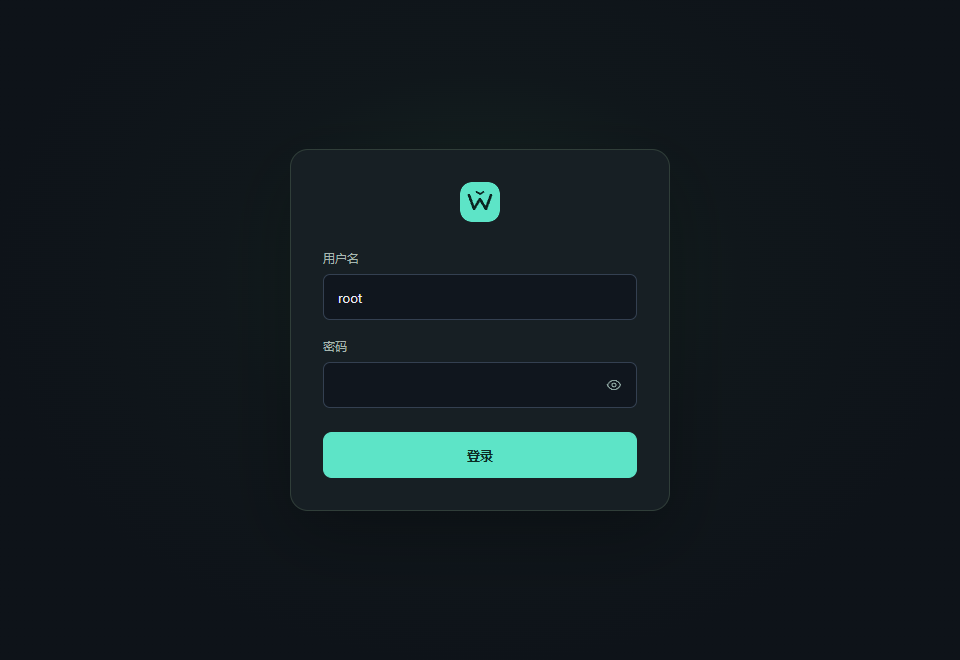
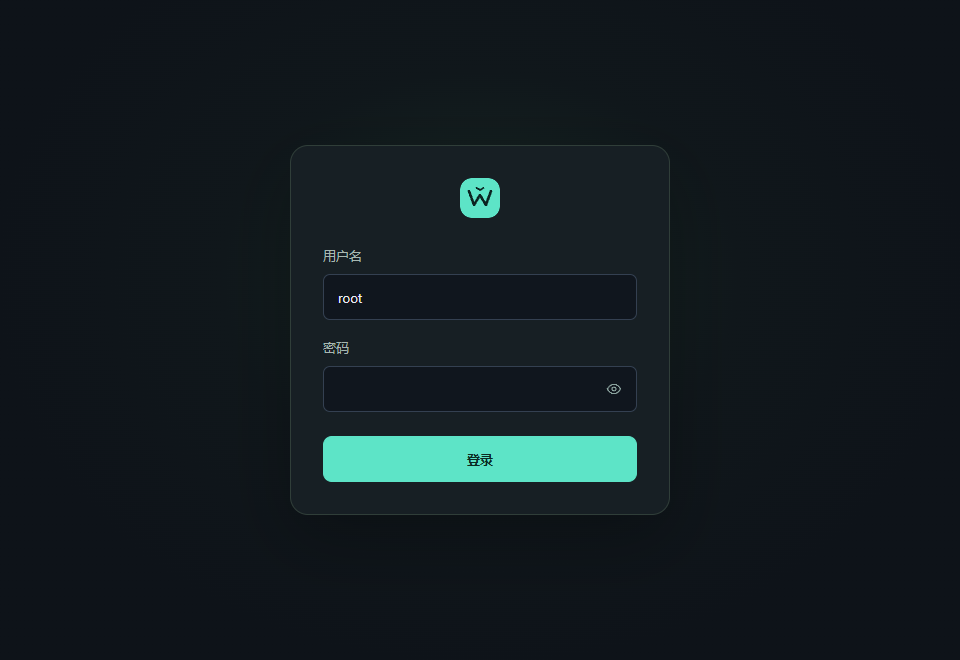
Use platform fonts and refine typography for v1.13.25

diff --git a/htdocs/luci-static/wm/cascade.css b/htdocs/luci-static/wm/cascade.css
@@ -9,11 +9,12 @@
  --border-color-high:#424d5f; --border-color-medium:var(--nt-line); --border-color-low:#232a35;
  --primary-color-high:var(--nt-accent); --primary-color-medium:#47cbb1; --primary-color-low:#36b99f; --on-primary-color:#092a23;
  --success-color-high:#5de4c7; --success-color-medium:#3bb99f; --success-color-low:#27866f; --on-success-color:#092a23;
- --font-sans:Inter,"Segoe UI","Microsoft YaHei",system-ui,sans-serif;
+ /* Use the platform font locally; never download or bundle Apple font files. */
+ --font-sans:-apple-system,BlinkMacSystemFont,"Segoe UI","Microsoft YaHei",system-ui,sans-serif;
  --font-mono:"Cascadia Code",Consolas,monospace; color-scheme:dark;
 }
 html {background:var(--nt-bg);scroll-behavior:auto;scrollbar-color:#465765 transparent;scrollbar-width:thin;}
-body.wm {margin:0;padding:0;background:var(--nt-bg);color:var(--nt-text);font:13px/1.65 var(--font-sans);min-width:0;overflow-y:auto;scrollbar-color:#394353 transparent;}
+body.wm {margin:0;padding:0;background:var(--nt-bg);color:var(--nt-text);font:400 13px/1.65 var(--font-sans);font-kerning:normal;font-optical-sizing:auto;letter-spacing:normal;min-width:0;overflow-y:auto;scrollbar-color:#394353 transparent;}
 /* Style only the page scrollbar; retain native scrolling and a wider drag area.
    Non-auto standard properties override WebKit scrollbar pseudo-elements. */
 @media (hover:hover) and (pointer:fine) and (forced-colors:none) {
@@ -161,7 +162,7 @@ html.nt-restoring-scroll .wm #maincontent {visibility:hidden;}
 .nt-metric:nth-child(2) .nt-metric-icon {color:#b1a8e1;background:#2d2940;border-color:#3b3454;}
 .nt-metric:nth-child(3) .nt-metric-icon {color:#88b5da;background:#223342;border-color:#2c4359;}
 .nt-metric:nth-child(4) .nt-metric-icon {color:#dbba81;background:#383020;border-color:#4a3d29;}
-.nt-metric-value {color:var(--nt-text);font-size:27px;line-height:1.3;font-weight:550;letter-spacing:-1px;font-variant-numeric:tabular-nums;white-space:nowrap;}
+.nt-metric-value {color:var(--nt-text);font-size:27px;line-height:1.3;font-weight:600;letter-spacing:-.02em;font-variant-numeric:tabular-nums;white-space:nowrap;}
 .nt-metric-value small {font-size:11px;color:var(--nt-muted);font-weight:400;letter-spacing:0;margin-left:5px;}
 .nt-metric-note {font-size:10px;color:var(--nt-dim);margin-top:10px;white-space:nowrap;overflow:hidden;text-overflow:ellipsis;}
 .nt-meter {height:3px;background:#28313e;border-radius:3px;margin-top:15px;overflow:hidden;}
@@ -170,9 +171,9 @@ html.nt-restoring-scroll .wm #maincontent {visibility:hidden;}
 .nt-metric:nth-child(4) .nt-meter span {background:#d0ae70;}
 .nt-sparkline {height:23px;width:100%;overflow:visible;display:block;margin-top:9px;}
 .nt-sparkline polyline {fill:none;stroke:#afa0df;stroke-width:1.8;vector-effect:non-scaling-stroke;}
-.wm h2 {font-size:19px;font-weight:550;color:var(--nt-text);letter-spacing:-.4px;line-height:1.5;margin:0 0 19px;padding:0;}
+.wm h2 {font-size:20px;font-weight:600;color:var(--nt-text);letter-spacing:0;line-height:1.5;margin:0 0 19px;padding:0;}
 .wm #maincontent>h2 {display:none;}
-.wm h3 {font-size:13px;font-weight:550;color:#d8e1ed;padding:0;line-height:1.5;letter-spacing:0;}
+.wm h3 {font-size:13px;font-weight:600;color:#d8e1ed;padding:0;line-height:1.5;letter-spacing:0;}
 .wm h4 {font-size:12px;color:#c7d2e1;}
 .wm .cbi-map-descr,.wm .cbi-section-descr {font-size:12px;color:var(--nt-muted);line-height:1.9;}
 .wm .cbi-section,.wm .cbi-tblsection {background:var(--nt-panel);border:1px solid var(--nt-line);border-radius:12px;padding:21px 23px;margin:0 0 20px;box-shadow:0 2px 3px #00000009;min-width:0;}
@@ -200,7 +201,7 @@ html.nt-restoring-scroll .wm #maincontent {visibility:hidden;}
 .wm.nt-overview #view>.cbi-section:first-child .td:first-child {color:var(--nt-dim);width:32%!important;}
 .wm .cbi-value {padding:13px 0;margin-bottom:8px;border-color:var(--nt-line);background:transparent;}
 .wm[data-page="admin-system-system"] .cbi-map>h2:first-child {display:none;}
-.wm .cbi-value-title {color:#c0ccda;font-size:12px;}
+.wm .cbi-value-title {color:#c0ccda;font-size:13px;}
 .wm .cbi-value-description {color:var(--nt-dim);font-size:11px;margin-top:8px;}
 .wm input:not([type=checkbox]):not([type=radio]):not([type=button]):not([type=submit]):not([type=reset]),.wm select,.wm textarea,.wm .cbi-dropdown:not(.btn):not(.cbi-button) {background:#10161e;color:var(--nt-text);border:1px solid #344051;border-radius:7px;box-shadow:none;min-height:35px;transition:border-color .18s,box-shadow .18s;}
 .wm input:not([type=checkbox]):not([type=radio]):not([type=button]):not([type=submit]):not([type=reset]):focus,.wm select:focus,.wm textarea:focus {border-color:#5aab98;box-shadow:0 0 0 3px #5de4c712;outline:none;}
@@ -422,7 +423,7 @@ html.nt-restoring-scroll .wm #maincontent {visibility:hidden;}
 .nt-login-brand {display:flex;flex-direction:column;align-items:center;justify-content:center;gap:12px;margin-bottom:28px;text-align:center;}
 .nt-login-brand img {border-radius:12px;flex-shrink:0;}
 .nt-login-form {margin:0;}
-.nt-login-form>label {display:block;font-size:12px;color:#a7b7b1;margin-bottom:8px;margin-top:18px;}
+.nt-login-form>label {display:block;font-size:13px;line-height:20px;color:#a7b7b1;margin-bottom:8px;margin-top:18px;}
 .nt-login-form>label:first-child {margin-top:0;}
 .wm .nt-login-form input {--focus-color-rgb:89,185,158;display:block;width:100%;height:46px;border:1px solid #34433f;border-radius:9px;background:#10171bd9;padding:10px 14px;font-size:13px;}
 .wm .nt-login-form input:focus {border-color:#59b99e;box-shadow:0 0 0 3px #5de4c70c;}

diff --git a/htdocs/luci-static/wm/home.css b/htdocs/luci-static/wm/home.css
@@ -9,7 +9,7 @@
 .wm.nt-overview .nt-metric:hover {transform:translateY(-4px);border-color:#4b665b;box-shadow:0 12px 28px #0003;}
 .wm.nt-overview .nt-metric-head {font-size:11px;margin-bottom:8px;}
 .wm.nt-overview .nt-metric-icon {width:28px;height:28px;border-radius:8px;}
-.wm.nt-overview .nt-metric-value {display:flex;align-items:baseline;flex-wrap:wrap;gap:3px 6px;font-size:27px;font-weight:600;letter-spacing:-1px;line-height:1.3;}
+.wm.nt-overview .nt-metric-value {display:flex;align-items:baseline;flex-wrap:wrap;gap:3px 6px;font-size:27px;font-weight:600;letter-spacing:-.02em;line-height:1.3;}
 .wm.nt-overview #nt-value-up {font-size:25px;}
 .wm.nt-overview .nt-metric-value small {margin-left:0;font-size:10px;}
 .wm.nt-overview .nt-metric-note {color:#809096;font-size:10px;line-height:1.5;margin-top:7px;}
@@ -69,7 +69,7 @@
 .nt-port-glyph {width:25px;height:25px;flex-shrink:0;fill:none;stroke:#79c9b2;stroke-width:1.35;stroke-linecap:round;stroke-linejoin:round;}
 .nt-port-speed {min-width:0;}
 .nt-port-speed-value {color:#e0eceb;font-size:23px;font-weight:500;line-height:1.25;letter-spacing:-.6px;font-variant-numeric:tabular-nums;overflow-wrap:anywhere;}
-.nt-port-speed-value strong {font:inherit;font-weight:550;}
+.nt-port-speed-value strong {font:inherit;font-weight:600;}
 .nt-port-speed-value small {font-size:11px;letter-spacing:0;font-weight:400;color:#8d9eab;margin-left:5px;}
 .wm.nt-overview .nt-port-card .nt-port-network-row {position:relative;justify-self:start;display:block!important;width:fit-content;min-width:0;min-height:20px;max-width:100%;padding:0;border:0;background:transparent!important;font-weight:400;}
 .nt-port-traffic {position:relative;}
@@ -103,7 +103,7 @@
 .wm.nt-overview .nt-network-content>.network-status-table {display:grid;grid-template-columns:repeat(auto-fit,minmax(min(100%,320px),1fr));gap:12px;min-width:0;margin:0;}
 .wm.nt-overview .nt-network-content .nt-uplink-card {container:wm-uplink / inline-size;display:block;min-width:0;max-width:100%;margin:0;padding:15px;border:1px solid #303c47;border-radius:10px;background:#151c24;white-space:normal;text-align:left;box-shadow:none;}
 .wm.nt-overview .nt-uplink-card>.nt-uplink-head {display:flex;align-items:center;gap:8px;justify-content:space-between;padding:0 0 13px;border:0;background:transparent!important;color:#d8e6eb!important;text-align:left;font-size:12px;}
-.nt-uplink-head>strong {font-weight:550;}
+.nt-uplink-head>strong {font-weight:600;}
 .wm.nt-overview .nt-uplink-card>.ifacebox-body {display:block;height:auto;padding:0;border:0;background:transparent;font-size:12px;}
 .wm.nt-overview .nt-uplink-card .nt-uplink-fields {display:grid;grid-template-columns:repeat(3,minmax(0,1fr));gap:12px 18px;margin:0;min-width:0;height:auto;flex:none;}
 .nt-uplink-fields>br,.nt-uplink-device br {display:none;}

diff --git a/htdocs/luci-static/resources/menu-wm.js b/htdocs/luci-static/resources/menu-wm.js
@@ -5,7 +5,7 @@
 
 return baseclass.extend({
  __init__: function() {
-  var menuVersion = '1.13.24';
+  var menuVersion = '1.13.25';
   if (session.getLocalData('wm.menu.version') !== menuVersion) {
    // LuCI keeps menu data in both the current module and the browser session.
    ui.menu.flushCache();

diff --git a/tools/build.py b/tools/build.py
@@ -38,7 +38,7 @@ for name in ['NOTICE','LICENSE']:
     data.append(('usr/share/doc/luci-theme-wm/'+name,(source/name).read_bytes(),0o644))
 
 control=f'''Package: luci-theme-wm
-Version: 1.13.24-1
+Version: 1.13.25-1
 Architecture: all
 Maintainer: wm contributors
 Section: luci
@@ -65,7 +65,7 @@ uci commit luci
 exit 0
 '''
 members=[('debian-binary',b'2.0\n'),('control.tar.gz',tar_bytes([('control',control.encode(),0o644),('postinst',postinst.encode(),0o755),('prerm',prerm.encode(),0o755)])),('data.tar.gz',tar_bytes(data))]
-package=out/'luci-theme-wm_1.13.24-1_all.ipk'
+package=out/'luci-theme-wm_1.13.25-1_all.ipk'
 package.write_bytes(tar_bytes([(name,content,0o644) for name,content in members]))
 with tarfile.open(out/'luci-theme-wm-source.tar.gz','w:gz') as tar:
     # Keep local QA, device backups, credentials and Git metadata out of releases.

diff --git a/README.md b/README.md
@@ -2,7 +2,7 @@
 
 为 OpenWrt LuCI 制作的现代暗黑主题。石墨黑背景、薄荷绿强调色、可折叠侧栏、响应式内容区，以及简洁的居中登录界面。
 
-**当前版本：1.13.24-1 · 软件包架构：all · 许可证：Apache-2.0**
+**当前版本：1.13.25-1 · 软件包架构：all · 许可证：Apache-2.0**
 
 ## 界面预览
 
@@ -24,8 +24,8 @@
 
 在 [最新 Release](https://github.com/xwei888/luci-theme-wm/releases/latest) 页面下载：
 
-- `luci-theme-wm_1.13.24-1_all.ipk`：安装包。
-- `luci-theme-wm-1.13.24-source.tar.gz`：对应版本源码。
+- `luci-theme-wm_1.13.25-1_all.ipk`：安装包。
+- `luci-theme-wm-1.13.25-source.tar.gz`：对应版本源码。
 - `SHA256SUMS`：文件校验值。
 
 安装方法见下方「安装与启用」，版本变化见 [CHANGELOG.md](CHANGELOG.md)。
@@ -36,6 +36,7 @@
 
 ## 功能
 
+- 使用设备本地字体：苹果设备优先系统字体，Windows 使用 Segoe UI 与微软雅黑；无需下载字体文件。
 - 独立主题目录，保留 LuCI 的菜单权限、表单、验证、保存与应用机制。
 - 侧栏折叠、分组展开动画、当前页面高亮；收起后点击分组打开侧边浮层，跳转后保持折叠，长菜单可滚动，支持方向键和 Esc。手机使用抽屉菜单与键盘焦点管理。移除 WORKSPACE 标题，收起时保留可见退出按钮。
 - `Ctrl + K` / `⌘ + K` 搜索菜单，支持方向键和 Enter。
@@ -75,7 +76,7 @@
 将发行包上传到路由器 `/tmp`，运行：
 
 ```sh
-opkg install /tmp/luci-theme-wm_1.13.24-1_all.ipk
+opkg install /tmp/luci-theme-wm_1.13.25-1_all.ipk
 uci set luci.main.mediaurlbase='/luci-static/wm'
 uci commit luci
 ```

diff --git a/CHANGELOG.md b/CHANGELOG.md
@@ -1,5 +1,11 @@
 # 更新记录
 
+## 1.13.25 — 2026-09-16
+
+- 主题使用本地字体：苹果设备优先调用系统字体，Windows 使用 Segoe UI 搭配微软雅黑；无需下载或分发字体文件。
+- 统一标题和主要数值字重，放松大数字字距，适度增大页面标题、表单和登录标签字号。
+- 更新首页与登录页预览图。已在 Windows Chromium 验证实际字体选择、桌面和手机宽度布局；尚未在苹果设备实测。
+
 ## 1.13.24 — 2026-09-16
 
 - 数字输入框的上下微调按钮改为细线箭头和圆角深色背景，悬停与按下时提供薄荷绿色反馈。
